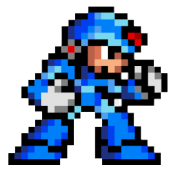
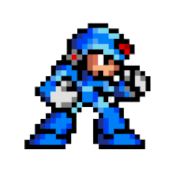
fixed the idle sprite itself to make it appear proportionatly correct to the spritesheet. I also improved the logic in the celanimationsequence. I had not realized the cel height was the full height of the spritesheet. I also improved the logic elsewhere. Finally i improved the handling for the char

diff --git a/Game1.cs b/Game1.cs
@@ -9,7 +9,7 @@ namespace Project1
         private SpriteBatch spriteBatch;
         private Texture2D backgroundImage;
         const int CEL_WIDTH = 172; // The dimentions of our cell
-        // const int CEL_HEIGHT = 171; this is determined by the animation classes 
+        const int CEL_HEIGHT = 172; // this is determined by the animation classes 
         private Texture2D idleSprite; // - PLAYER
         private CelAnimationSequence walking; // - PLAYER
         private CelAnimationPlayer playerAnimator; // - PLAYER
@@ -42,7 +42,7 @@ namespace Project1
             backgroundImage = Content.Load<Texture2D>("background"); // set up the background image
             idleSprite = Content.Load<Texture2D>("megaman-idle");
             Texture2D spriteSheet = Content.Load<Texture2D>("mega-man-sprite-sheet");
-            walking = new CelAnimationSequence(spriteSheet, CEL_WIDTH, CEL_TIME);
+            walking = new CelAnimationSequence(spriteSheet, CEL_WIDTH, CEL_HEIGHT, CEL_TIME);
             // Set up the animation player
             playerAnimator = new CelAnimationPlayer();
             playerAnimator.Play(walking);
@@ -74,12 +74,12 @@ namespace Project1
             // if we are out of the play area, reset the position 
             if ( horizontalPosition > SCREEN_WIDTH - spriteWidth)
             {
-                // We have gone too far too the right, reset position to just back inside
+                // We have gone too far, reset position to just back inside
                 player1.UpdatePosition(new Vector2(SCREEN_WIDTH - spriteWidth - player1.HorizontalSpeed(), player1.Position().Y));
             }
-            else if (horizontalPosition < spriteWidth)
+            else if (horizontalPosition < 0)
             {
-                player1.UpdatePosition(new Vector2(spriteWidth + player1.HorizontalSpeed(), player1.Position().Y));
+                player1.UpdatePosition(new Vector2(player1.HorizontalSpeed(), player1.Position().Y));
             }
             else
             {
@@ -99,7 +99,7 @@ namespace Project1
             }
         }
 
-        // This will draw the scene each frame. Draw either the idle state or walking state and animation based on whether we are moving
+        // Draw either the idle state or walking state and animation based on whether we are moving
         public void DrawPlayer()
         {
             Movement motionState = player1.Motion();

diff --git a/CelAnimationSequence.cs b/CelAnimationSequence.cs
@@ -25,13 +25,12 @@ namespace Project1
         /// <summary>
         /// Constructs a new CelAnimationSequence.
         /// </summary>        
-        public CelAnimationSequence(Texture2D texture, int celWidth, float celTime)
+        public CelAnimationSequence(Texture2D texture, int celWidth, int celHeight, float celTime)
         {
             this.texture = texture;
             this.celWidth = celWidth;
             this.celTime = celTime;
-
-            celHeight = Texture.Height;
+            this.celHeight = celHeight;
             celCountX = Texture.Width / celWidth;
             celCountY = Texture.Height / celHeight;
         }
